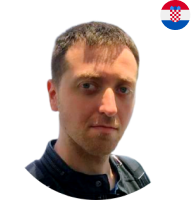
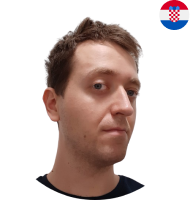
fix: update webiny team data
update Adrian profile pic
remove Andrei from team

`About us` page

diff --git a/src/components/about-us/about-us-data.js b/src/components/about-us/about-us-data.js
@@ -3,7 +3,6 @@ import React from "react";
 import profileSven from "./assets/Sven.png";
 import profilePavel from "./assets/Pavel.png";
 import profileAdrian from "./assets/Adrian.png";
-import profileAndrei from "./assets/Andrei.png";
 import profileEmil from "./assets/Emil.png";
 import profileAshutosh from "./assets/Ashutosh.png";
 import profileAlbiona from "./assets/Albiona.png";
@@ -55,14 +54,6 @@ export const TEAM_MEMBERS = [
         imgSrc: profileAdrian
     },
     {
-        id: 3,
-        name: "Andrei Puiu",
-        jobTitle: "Full-stack developer",
-        github: "https://github.com/Fsalker",
-        linkedIn: "https://www.linkedin.com/in/antonio-andrei-p-a51b42116",
-        imgSrc: profileAndrei
-    },
-    {
         id: 4,
         name: "Emil Kais",
         jobTitle: "Full-stack developer",
@@ -85,6 +76,7 @@ export const TEAM_MEMBERS = [
         jobTitle: "Developer relations",
         github: "https://github.com/albionahoti",
         twitter: "https://twitter.com/albionaitoh",
+        linkedIn: "https://www.linkedin.com/in/albionahoti/",
         imgSrc: profileAlbiona
     },
     {

diff --git a/src/components/about-us/about-us-styles.js b/src/components/about-us/about-us-styles.js
@@ -270,7 +270,8 @@ export const ProfileCard = styled("div")(
         "& .profile__img": {
             height: "100%",
             width: "100%",
-            marginBottom: 8
+            marginBottom: 8,
+            objectFit: "cover"
         },
         "& .profile__name": {
             marginBottom: 0,
